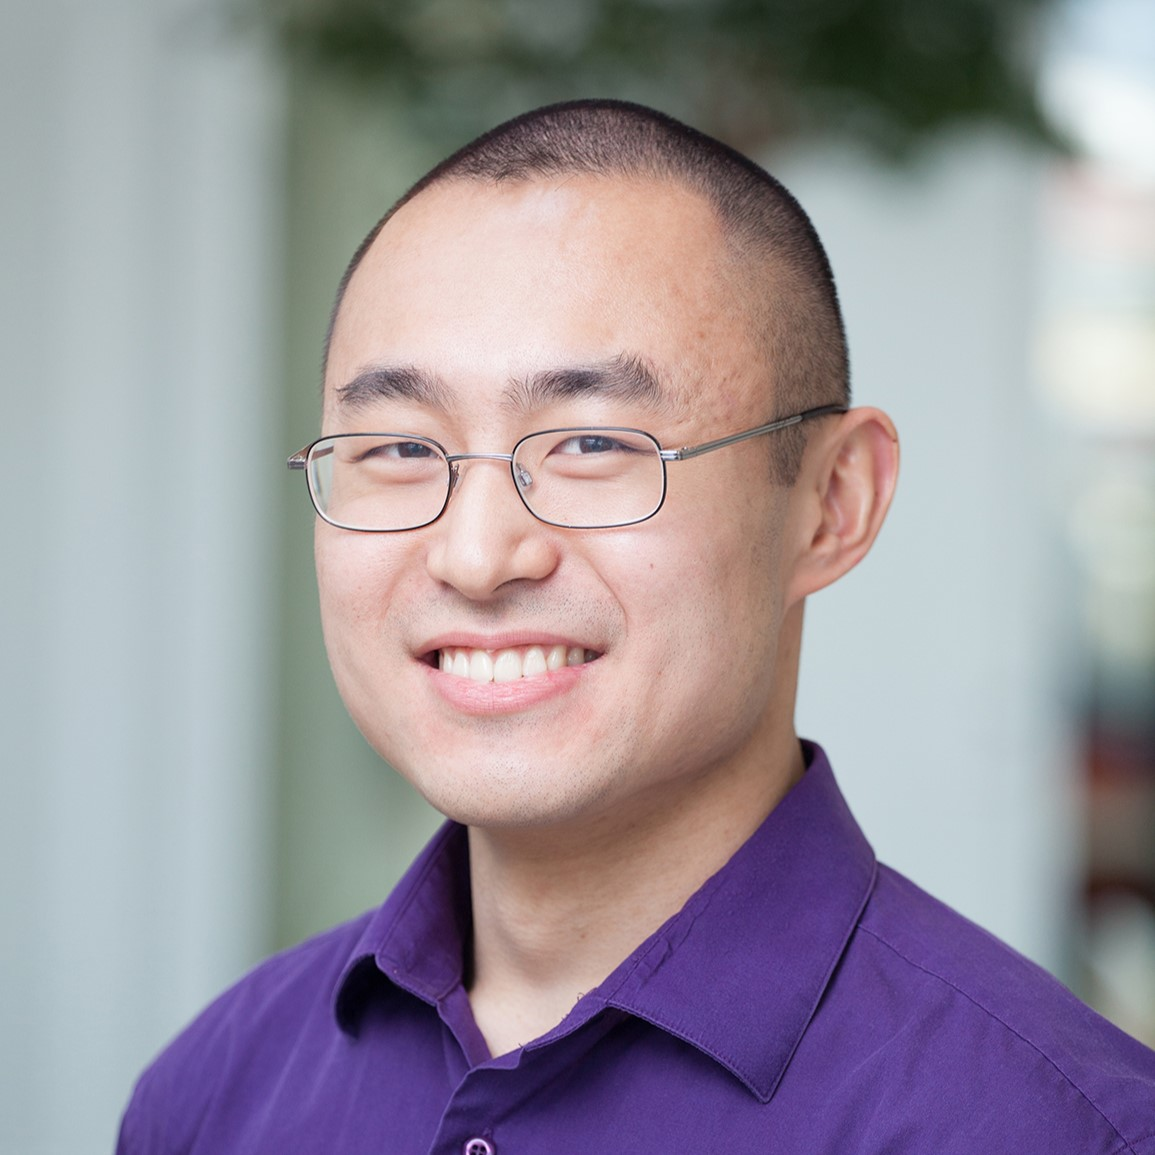
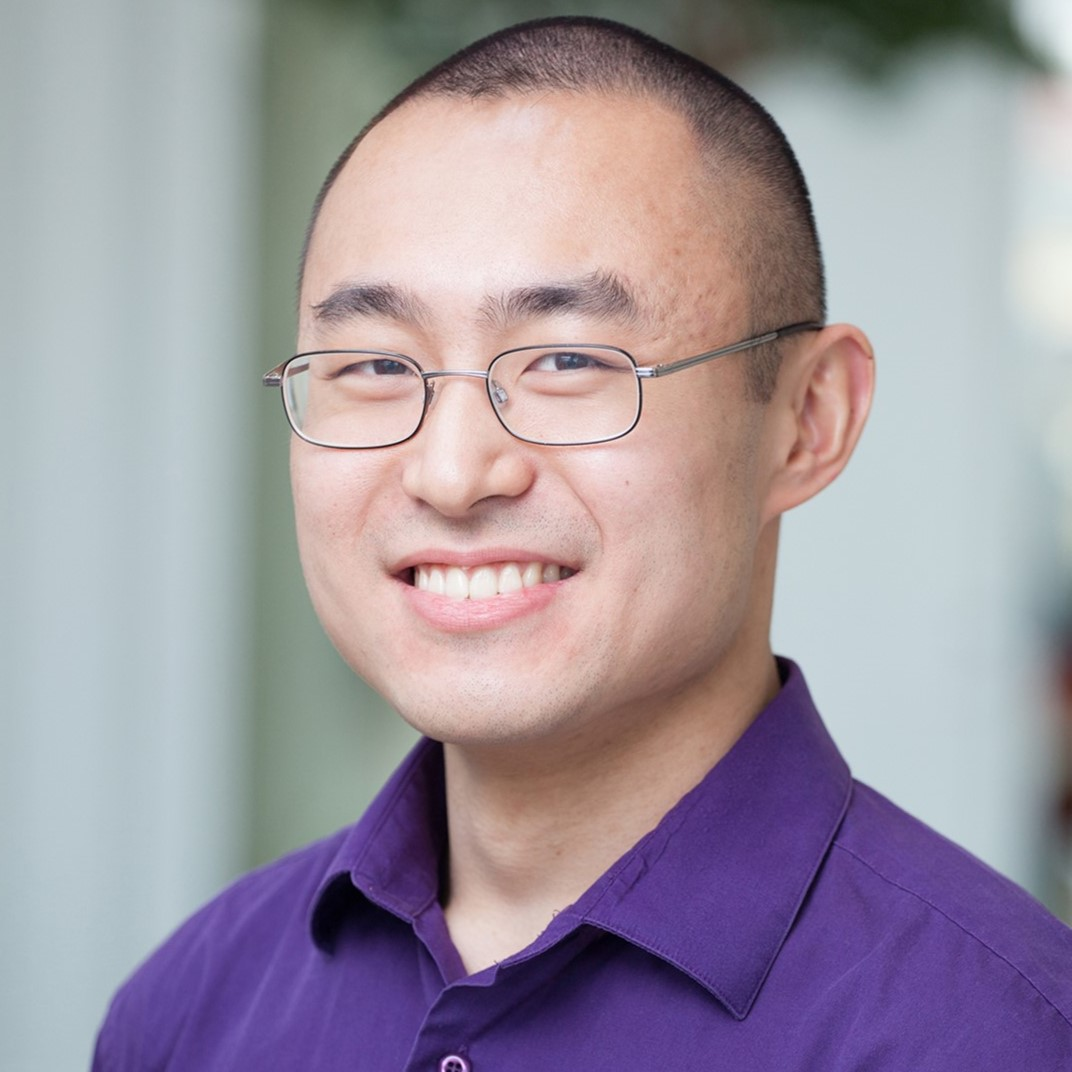
edit img

diff --git a/docs/_sass/jekyll-theme-cayman.scss b/docs/_sass/jekyll-theme-cayman.scss
@@ -230,7 +230,7 @@ a {
   img {
 
     @include large {
-      max-width: 30%;
+      max-width: 35%;
     }
   
     @include medium {
